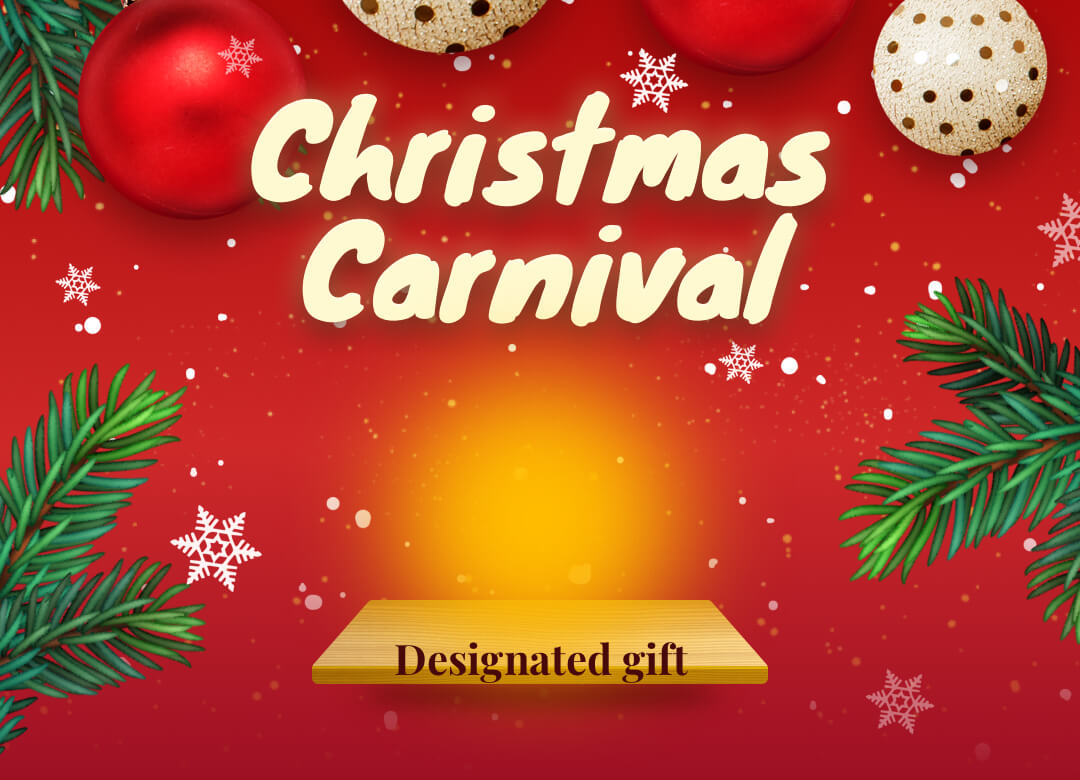
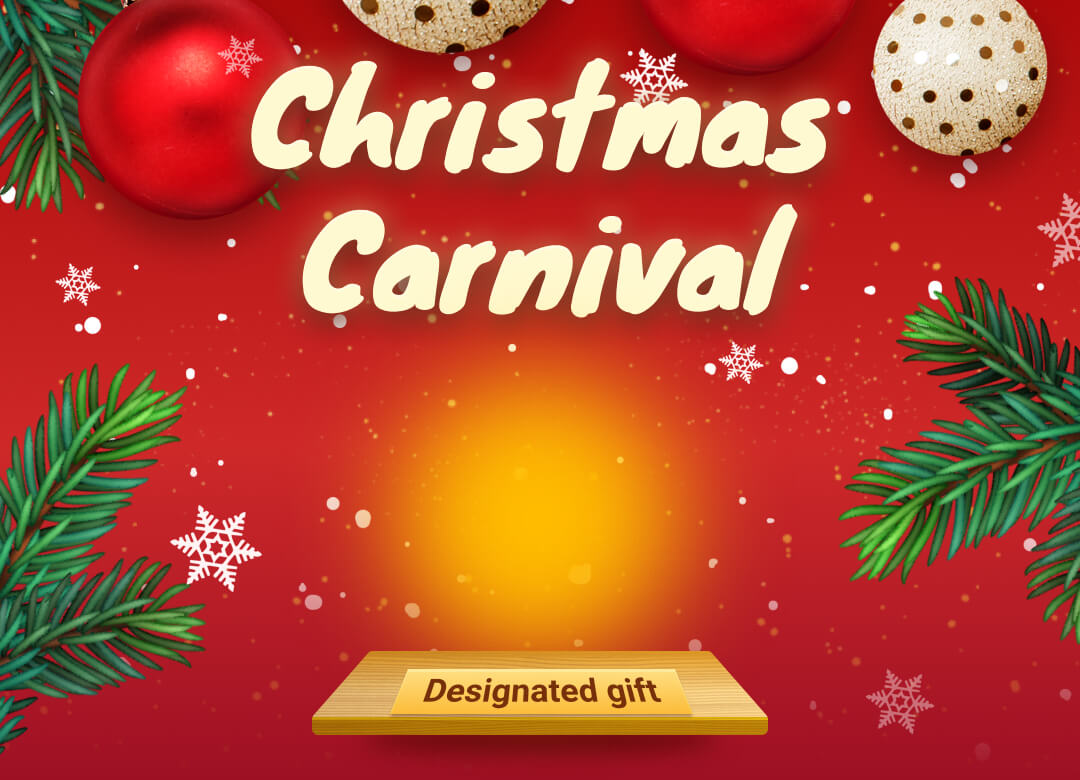
圣诞节活动图片修改，前三名样式修改

Changed region(s): [[0.2139, 0.0615, 0.7944, 0.4308], [0.275, 0.7692, 0.7333, 0.9846]]

diff --git a/src/components/TopRank.vue b/src/components/TopRank.vue
@@ -1,5 +1,5 @@
 <template>
-  <v-layout style="display:flex">
+  <v-layout style="display:flex" class="topRank">
       <v-layout style="flex:1" v-ripple column justify-end align-center @click="personDetail(tabIndex == 0 ?(receiverTop != undefined?receiverTop[1].jid:''):(sendTop != undefined?sendTop[1].jid:''))">
             <v-layout column align-center class="second_layout">
               <img class="anchor_crown" src="../resource/top_second.png"/>
@@ -7,12 +7,15 @@
                    v-bind:src="`${tabIndex == 0 ? (receiverTop != undefined?(receiverTop[1].avatarUrl):'') : (sendTop != undefined?sendTop[1].avatarUrl:'')}`"/>
               <img  class="anchor_rank_img" src="../resource/rank_second.png"/>
             </v-layout>
-          <v-layout>
+          <div>
             <span class="anchor_name" v-bind:style="{width:'80px'}">{{tabIndex == 0 ?(receiverTop != undefined?receiverTop[1].nickname:''): (sendTop != undefined?sendTop[1].nickname:'')}}</span>
-          </v-layout>
-          <v-layout color="top_anchor_gift_color">
+          </div>
+          <div style="height:30px">
+            <span class="icon-snow">
+                <img src="../static/img/ic_score.png" alt="">
+            </span>
             <span class="rank_gift">{{tabIndex == 0 ?(receiverTop != undefined?receiverTop[1].gifts:'') : (sendTop != undefined?sendTop[1].gifts:'')}}</span>
-          </v-layout>
+          </div>
       </v-layout>
 
     <v-layout style="flex:1;" v-ripple column align-center @click="personDetail(tabIndex == 0 ?(receiverTop != undefined?receiverTop[0].jid:''):(sendTop != undefined?sendTop[0].jid:''))">
@@ -22,12 +25,15 @@
                v-bind:src="`${tabIndex == 0 ?(receiverTop != undefined?(receiverTop[0].avatarUrl):'') : (sendTop != undefined?sendTop[0].avatarUrl:'')}`"/>
           <img  class="anchor_rank_img" src="../resource/rank_first.png"/>
         </v-layout>
-      <v-layout>
+      <div>
         <div class="anchor_name" v-bind:style="{width:'80px'}">{{tabIndex == 0 ?(receiverTop != undefined?receiverTop[0].nickname:''): (sendTop != undefined?sendTop[0].nickname:'')}}</div>
-      </v-layout>
-      <v-layout>
+      </div>
+      <div style="height:30px">
+        <span class="icon-snow">
+                <img src="../static/img/ic_score.png" alt="">
+            </span>
         <span class="rank_gift">{{tabIndex == 0 ?(receiverTop != undefined?receiverTop[0].gifts:'') : (sendTop != undefined?sendTop[0].gifts:'')}}</span>
-      </v-layout>
+      </div>
     </v-layout>
 
     <v-layout  style="flex:1" v-ripple column justify-end align-center @click="personDetail(tabIndex == 0 ?receiverTop[2].jid : sendTop[2].jid)">
@@ -37,12 +43,15 @@
             v-bind:src="`${tabIndex == 0 ?(receiverTop != undefined?(receiverTop[2].avatarUrl):'') : (sendTop != undefined?sendTop[2].avatarUrl:'')}`"/>
           <img class="anchor_rank_img" src="../resource/rank_third.png"/>
         </v-layout>
-      <v-layout>
+      <div >
         <span class="anchor_name" v-bind:style="{width:'80px'}">{{tabIndex == 0 ?(receiverTop != undefined?receiverTop[2].nickname:''): (sendTop != undefined?sendTop[2].nickname:'')}}</span>
-      </v-layout>
-      <v-layout>
+      </div>
+      <div style="height:30px">
+        <span class="icon-snow">
+                <img src="../static/img/ic_score.png" alt="">
+            </span>
         <span class="rank_gift">{{tabIndex == 0 ?(receiverTop != undefined?receiverTop[2].gifts:'') : (sendTop != undefined?sendTop[2].gifts:'')}}</span>
-      </v-layout>
+      </div>
     </v-layout>
   </v-layout>
 
@@ -127,7 +136,13 @@
     border: thick solid rgba(198, 198, 198, 1);
     border-width: .066667rem;
   }
+  .topRank .icon-snow img{
+    vertical-align: top;
 
+  }
+  .topRank .icon-snow{
+    float: left;
+  }
   .third_img {
     margin-top: -0.333333rem;
     width: 2rem;
@@ -156,6 +171,12 @@
   .rank_gift{
     font-size: .333333rem;
     color: rgba(0, 0, 0, 0.4);
+    margin-top: .027778rem;
+    color: #DAA926;
+    margin-left: .111111rem;
+    display: block;
+    float: left;
+ 
   }
 
   .anchor_name{

diff --git a/src/components/RankingList.vue b/src/components/RankingList.vue
@@ -18,8 +18,11 @@
                   <div class="item_name">
                     {{x.nickname}}
                   </div>
-                  <v-card-text class="item_rank">
-                    <span class="right">
+                  <v-card-text class="item_rank right">
+                    <span class="icon-snow">
+                      <img src="../static/img/ic_score.png" alt="">
+                    </span>
+                    <span class="snow-cont">
                       {{x.gifts}}
                     </span>
                   </v-card-text>
@@ -80,8 +83,21 @@ export default {
   .item_rank{
     margin-right: .333333rem;
     font-size: .333333rem;
-    color: rgba(0,0,0,0.40);
+    color: #DAA926;
     padding:0;
+  }
+  .snow-cont{
+    display: inline-block;
+    margin-top: 1px;
+    vertical-align: top;
+    margin-left: 2px;
+  }
+  .icon-snow{
+    display: inline-block;
+    vertical-align: top;
+  }
+  .icon-snow img{
+    width: .361111rem;
   }
   .item_name{
     text-align: left;

diff --git a/src/components/Banner.vue b/src/components/Banner.vue
@@ -413,7 +413,7 @@ export default {
 .myGift{
   position: absolute;
   left:50%;
-  bottom:16%;
+  bottom:13%;
   transform: translateX(-50%);
   width: 3.6rem;
   
@@ -424,19 +424,16 @@ export default {
     border-radius: .222222rem;
     border: 1px solid rgba(255, 255, 255, 0.1);
     font-size: 0.333333rem;
-    /* transform: scale(0.8); */
-    /* line-height: 0.55rem; */
+    
     color: #EBD584;
     outline: none;
     position: absolute;
     left:50%;
-    top:91%;
-    transform: translateX(-50%);
-    width: 5.555556rem
+    top:100%;
+    width: 5.555556rem;
+    z-index: 99;
+    transform: scale(0.9) translateX(-55%);
   }
-.myGift{
-  
-}
 .banner_float{
   position: absolute;
   right: 0;

diff --git a/src/store/ApiHelper.js b/src/store/ApiHelper.js
@@ -14,11 +14,11 @@ export function requestApiUrl(apiName){
     return api
 }
 export function getCurrentJid(){
-    var currentJid = "user_1025921@bj2.1-1.io";
+    var currentJid = "anchor_1016747@bj2.1-1.io";
     // var currentJid = "user_1024882@bj2.1-1.io";
-    if (window.plat == "android" || window.plat == "ios"){
-        currentJid = window.jid;
-    }
+    // if (window.plat == "android" || window.plat == "ios"){
+    //     currentJid = window.jid;
+    // }
     return currentJid;
 }
 

diff --git a/src/pages/index/App.vue b/src/pages/index/App.vue
@@ -156,7 +156,6 @@ export default {
     fetchData() {
       // this.$i18n.locale = "en"; // 切换语言
       // console.log("fetchData");
-      console.log(this.hasReward,'kenan9')
       this.$store
         .dispatch("FETCH_RANKING_LIST", { myJid: window.jid })
         .then(() => {
@@ -222,7 +221,7 @@ export default {
   background: #9D1024;
   background-size: 100%;
   position: relative;
-  margin-top:.4rem
+  margin-top:1rem;
 }
 .mine_rank {
   width: 100%;
